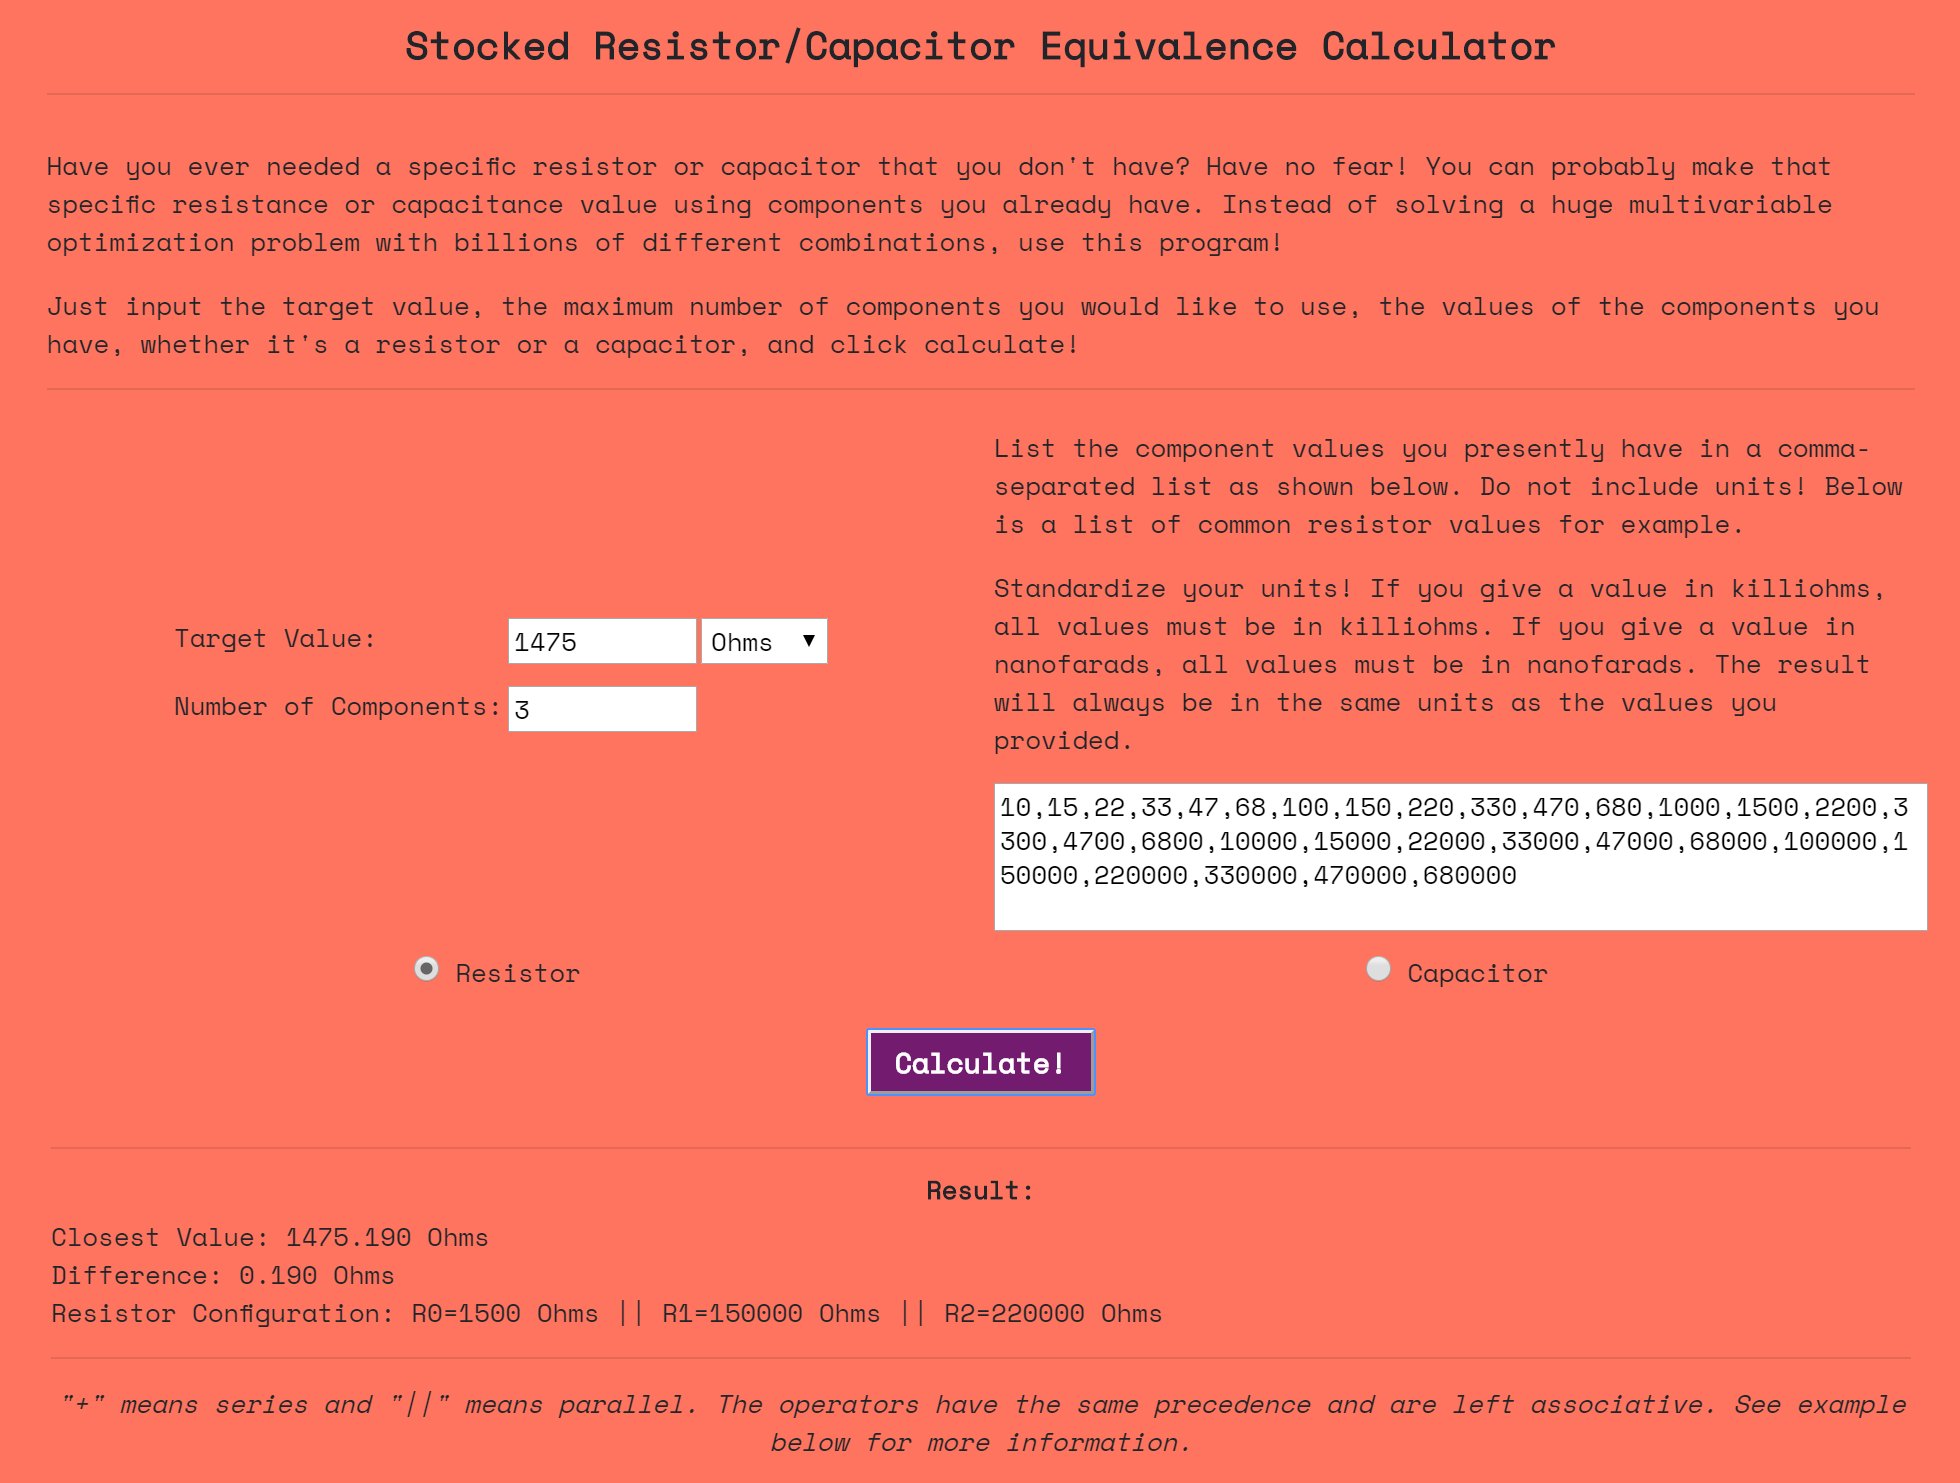
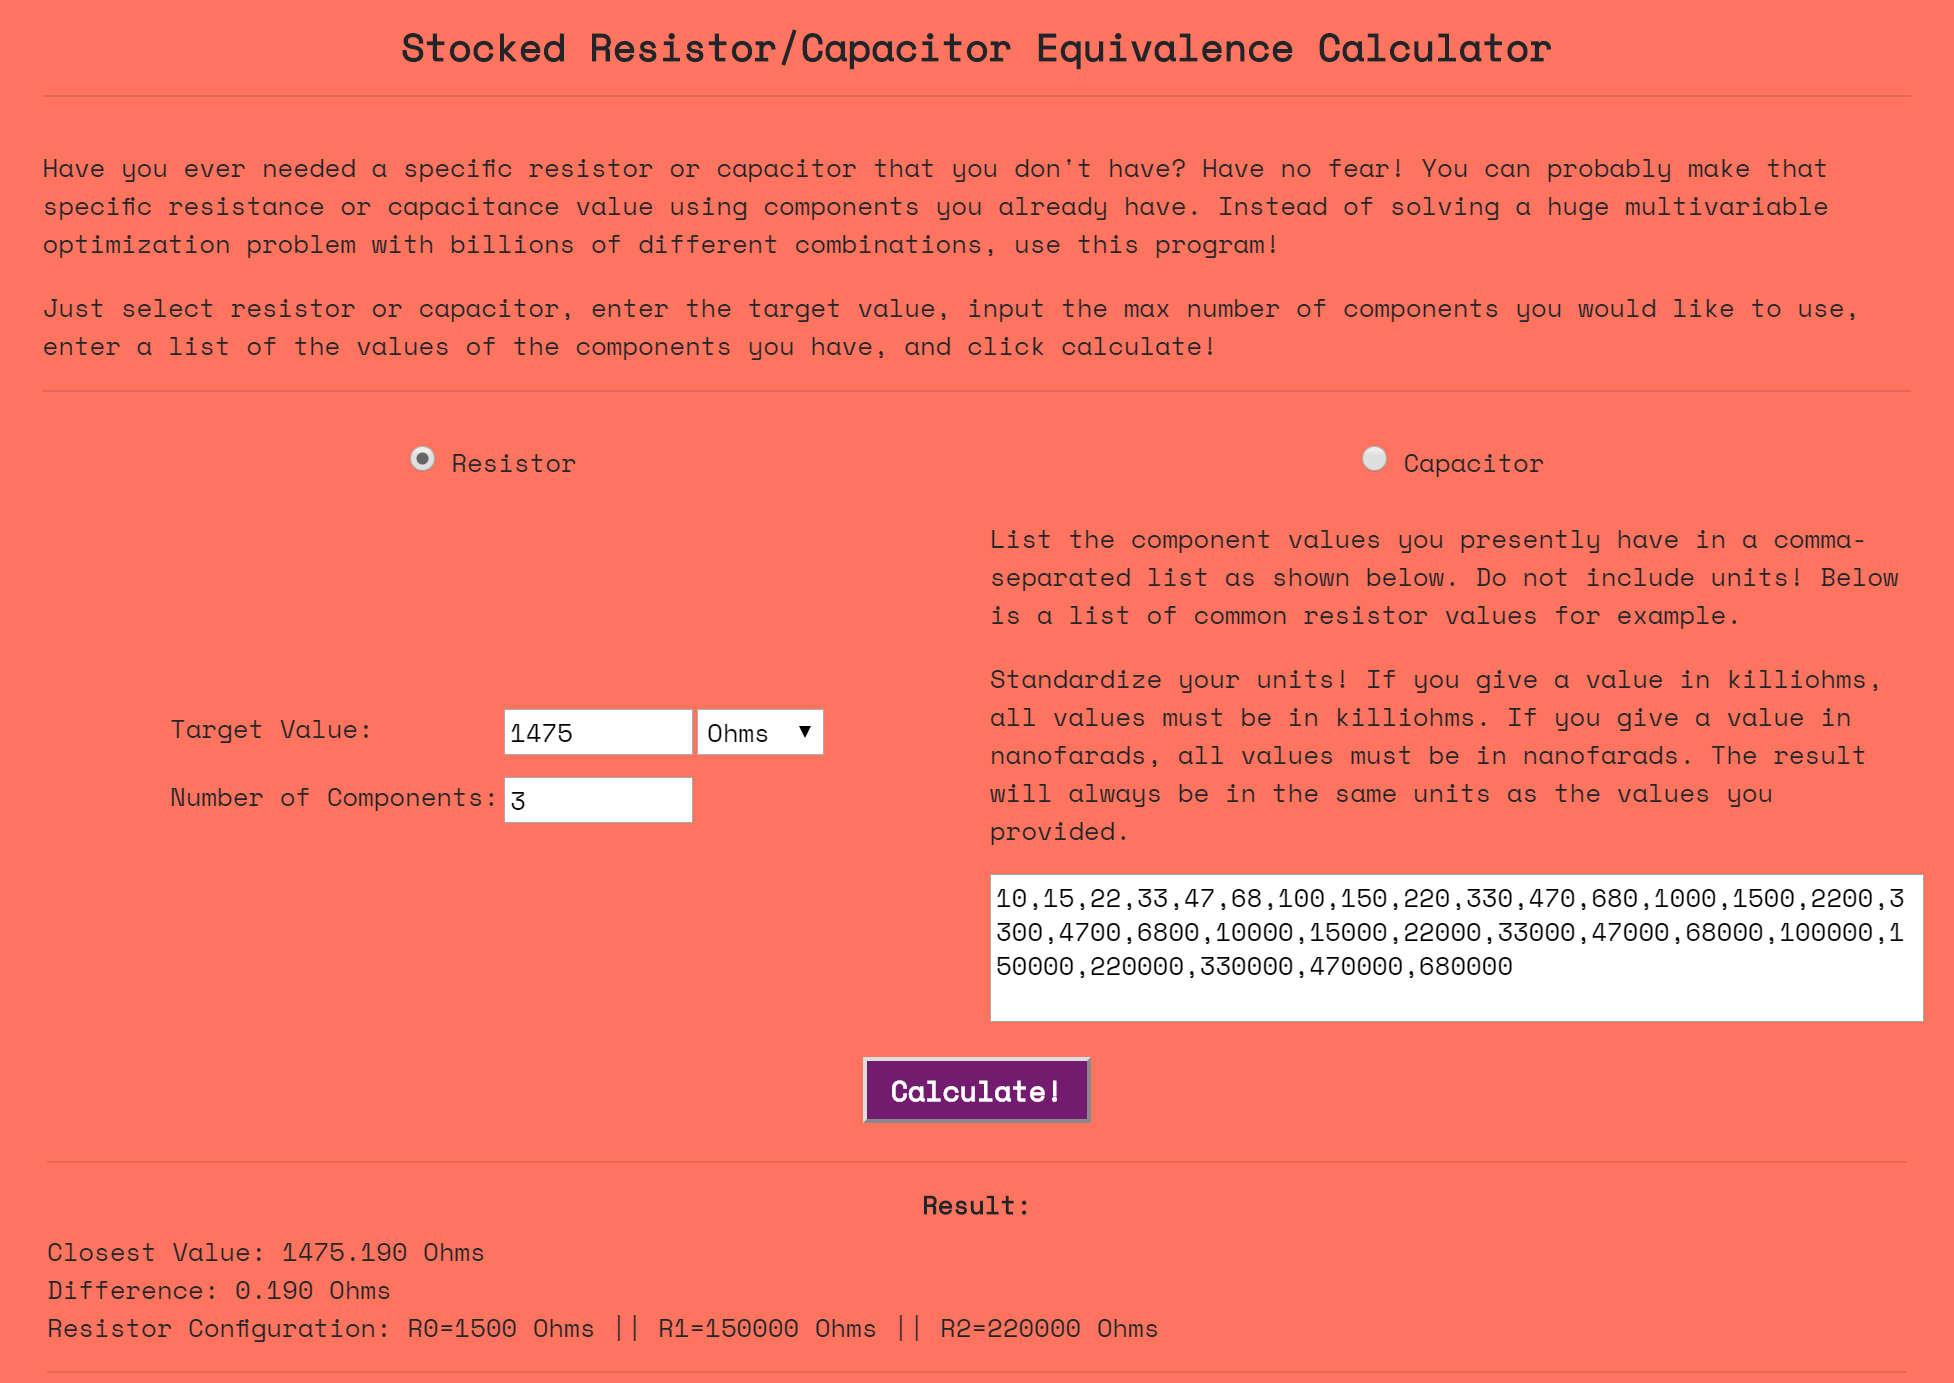
Moved radio buttons.

diff --git a/index.html b/index.html
@@ -39,10 +39,27 @@
 		</div>
 		<div class="row">
 			<div class="col-md-12 mx-auto pl-3 pr-3 text-center">
-				<p>Have you ever needed a specific resistor or capacitor that you don't have? Have no fear! You can probably make that specific resistance or capacitance value using components you already have. Instead of solving a huge multivariable
-					optimization problem with billions of different combinations, use this program!</p>
-				<p>Just input the target value, the maximum number of components you would like to use, the values of the components you have, whether it's a resistor or a capacitor, and click calculate!</p>
+				<p>Have you ever needed a specific resistor or capacitor that you don't have? Have no fear! You can probably make that specific resistance or capacitance value using components you already have. Instead of solving a huge multivariable optimization problem with billions of different combinations, use this program!</p>
+				<p>Just select resistor or capacitor, enter the target value, input the max number of components you would like to use, enter a list of the values of the components you have, and click calculate!</p>
 				<hr>
+			</div>
+		</div>
+
+		<!-- radio buttons -->
+		<div class="row">
+			<div class="col-xs-4 mx-auto p-0 text-center">
+				<label class="container mt-3 mb-3">
+					<input type="radio" checked="checked" name="component" id="resRadio">
+					Resistor
+					<span class="checkmark"></span>
+				</label>
+			</div>
+			<div class="col-xs-4 mx-auto p-0 text-center">
+				<label class="container mt-3 mb-3">
+					<input type="radio" name="component" id="capRadio">
+					Capacitor
+					<span class="checkmark"></span>
+				</label>
 			</div>
 		</div>
 
@@ -89,27 +106,9 @@
 			</div>
 		</div>
 
-		<!-- radio buttons -->
-		<div class="row">
-			<div class="col-xs-4 mx-auto p-0 text-center">
-				<label class="container">
-					<input type="radio" checked="checked" name="component" id="resRadio">
-					Resistor
-					<span class="checkmark"></span>
-				</label>
-			</div>
-			<div class="col-xs-4 mx-auto p-0 text-center">
-				<label class="container">
-					<input type="radio" name="component" id="capRadio">
-					Capacitor
-					<span class="checkmark"></span>
-				</label>
-			</div>
-		</div>
-
 		<!-- big button -->
 		<div class="row">
-			<div class="col-md-12 mx-auto p-0 text-center">
+			<div class="col-md-12 mx-auto p-2 text-center">
 				<button onclick="calculatorClick()" id="calcButton">
 					Calculate!
 				</button>
